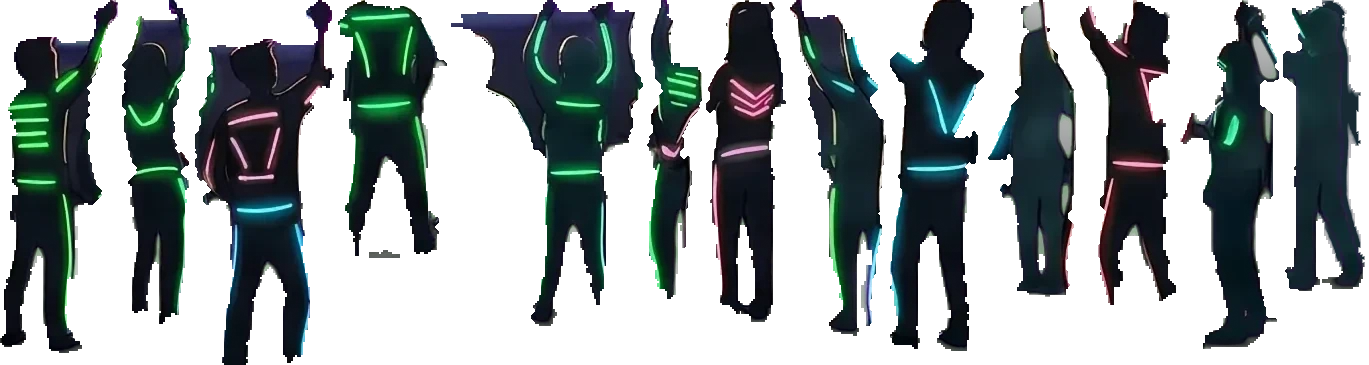
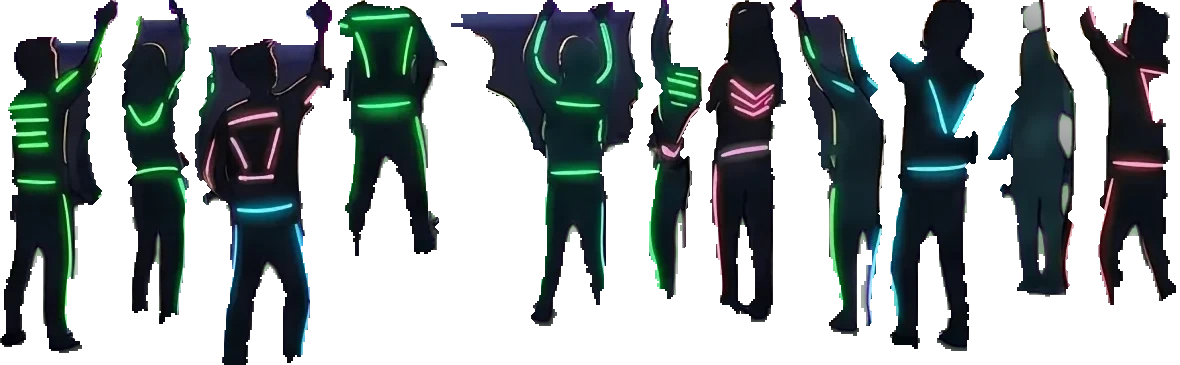
fix(bloomscroll): desktop crowd without holes, misty pair at the right removed
Behind each hopping dancer the wide painting is now as solid as its
surroundings (stage and people solid, ground soft, sky clear), filled from
dark paint only, so a hop never shows sky through the crowd. The misty
pair at the right end of the crowd is removed (owner request).

diff --git a/components/feed/BloomscrollScene.js b/components/feed/BloomscrollScene.js
@@ -20,7 +20,7 @@ import { BLOOMSCROLL_LOGO } from "@/components/Header/nav-links"
 // so a sharper file of the same shape replaces one with no other change.
 const IMG = "/images/bloomscroll/"
 // Bump when any scene image is replaced, so no browser mixes a cached old picture with new code
-const ART_V = "v=7"
+const ART_V = "v=8"
 const MOON = "moon.webp"
 const WIDE_ART = {
   sky: "sky.webp", far: "far-cut.webp", soft: "far-cut-blur.webp", clouds: "clouds.webp",
@@ -64,7 +64,7 @@ const LIFE = {
     fires: [[0.8315, 0.795, 0.024, "bonfire"], [0.937, 0.258, 0.014, "torch"]],
     wheel: [0.8264, 0.475, 0.0455],
     hoops: [[0.8795, 0.621, 0.011], [0.9175, 0.643, 0.011], [0.948, 0.655, 0.011], [0.9945, 0.646, 0.011]],
-    figures: [[0.12744,0.63751,0.02881,0.20311,0.0,0.0862,0.96714],[0.14844,0.65075,0.01685,0.18642,0.08912,0.05041,0.88767],[0.16089,0.63521,0.03394,0.21001,0.14244,0.10155,0.99999],[0.19678,0.70598,0.02661,0.14845,0.2469,0.07962,0.70687],[0.20093,0.6542,0.04688,0.18757,0.32944,0.14026,0.89314],[0.2439,0.65075,0.01343,0.17204,0.47261,0.04018,0.81919],[0.25195,0.67779,0.01953,0.18527,0.5157,0.05843,0.88219],[0.26343,0.63982,0.02344,0.19333,0.57706,0.07013,0.92057],[0.28296,0.6611,0.02295,0.20196,0.65011,0.06867,0.96166],[0.29834,0.64845,0.02148,0.17089,0.72169,0.06427,0.81372],[0.31299,0.6565,0.02344,0.17549,0.7889,0.07013,0.83562],[0.33276,0.64097,0.02417,0.20081,0.86194,0.07232,0.95619],[0.35229,0.65765,0.02002,0.16743,0.93718,0.0599,0.79724]],
+    figures: [[0.12744,0.63751,0.02881,0.20311,0.0,0.1,0.96714],[0.14844,0.65075,0.01685,0.18642,0.10339,0.05849,0.88767],[0.16089,0.63521,0.03394,0.21001,0.16525,0.11781,0.99999],[0.19678,0.70598,0.02661,0.1473,0.28644,0.09237,0.70139],[0.20093,0.6542,0.04688,0.18757,0.3822,0.16273,0.89314],[0.2439,0.65075,0.01343,0.17204,0.54831,0.04662,0.81919],[0.25195,0.67779,0.01953,0.18527,0.59831,0.06779,0.88219],[0.26343,0.63982,0.02344,0.19333,0.66949,0.08136,0.92057],[0.28296,0.6611,0.02295,0.20196,0.75424,0.07966,0.96166],[0.29834,0.64845,0.02148,0.17089,0.83729,0.07456,0.81372],[0.31299,0.6565,0.02344,0.17549,0.91525,0.08136,0.83562]],
     hop: 0.0081,
     rig: {
       heads: [[0.1275, 0.381], [0.1645, 0.355], [0.2475, 0.363], [0.2785, 0.394]], wall: [0.0525, 0.341, 0.289, 0.651], floor: 0.651, panel: [0.1425, 0.237, 0.578, 0.642],

diff --git a/docs/bloomscroll-scene.md b/docs/bloomscroll-scene.md
@@ -58,7 +58,7 @@ The Bloomscroll page (`/feed`) opens with an animated festival scene: the visito
 | Turning wheel (every screen) | centre (0.816, 0.493), radius 0.094 W, one turn per `9000·2π` ms, 12 gondolas, 24 rim bulbs, behind the tents |
 | Phone festival | portrait concert painting, split at **55.5 %**; left group set down **8 %**, right group **4 %** of the scene height |
 | Concert (every screen) | **124 bpm**; colours teal (98, 168, 172), chartreuse (206, 255, 29), magenta (255, 79, 216), violet (138, 92, 255), warm white (255, 238, 205), changing every 8 beats; beams, LED panel pulse (the painted panel itself, tinted, so only its LED lines glow), strobe every 16 beats (a soft burst). The stage lights are drawn on their own canvas with faded edges, so no flash ever shows a box. |
-| Crowd hop (QA round 2, owner request) | the dancers in front of the stage are cut out whole (`scripts/crowd_figures.py`) and hop as solid figures: a quick hop on each beat, rolling across the crowd from left to right; height 0.81 % (wide) / 0.7 % (phone) of the painting. At rest the painting is exactly the original. The painted light-spinner (wide) and the right-hand hoop girl (phone) are out of the paintings, and the light-hoop sparks are gone. The stage's back-right wall, painted the key magenta, is filled in from the wall around it (it used to cut out see-through). |
+| Crowd hop (QA round 2, owner request) | the dancers in front of the stage are cut out whole (`scripts/crowd_figures.py`) and hop as solid figures: a quick hop on each beat, rolling across the crowd from left to right; height 0.81 % (wide) / 0.7 % (phone) of the painting. At rest the painting is exactly the original. The painted light-spinner (wide) and the right-hand hoop girl (phone) are out of the paintings, and the light-hoop sparks are gone. QA round 3 (owner request): the misty pair at the right end of the wide crowd and the phone's striped-legs dancer are out too (`drop` in the script), and behind every hopper the painting is as solid as its surroundings, so a hop never shows sky through the crowd. The stage's back-right wall, painted the key magenta, is filled in from the wall around it (it used to cut out see-through). |
 | Bottom fade | desktop and tablet 14 % of the scene height; phone 30 % |
 | Reduced motion | everything still: moon up, lights on, no unfold, no hop, wheel still |
 | Walk-in on phones | counts from the first pixel of scroll, so the scene moves straight away |

diff --git a/docs/bloomscroll-assets.md b/docs/bloomscroll-assets.md
@@ -23,7 +23,7 @@ All files are in `public/images/bloomscroll/`.
 | `p-far-cut.webp` | Far painting | phone | 900×1117 | 0.806 | transparent sky | **Yes (02)** |
 | `far-cut-blur.webp` / `p-far-cut-blur.webp` | Soft-focus copy of the far painting | wide / phone | as above | | transparent | No: rebuilt from 01/02 |
 | `festival-concert.webp` / `festival-concert@2x.webp` | Wide concert festival, hopping figures lifted out (filled in behind them) | desktop, tablet | 2000×849 / 4096×1738 | 33:14 | transparent | **Done**: cut from Terry's 4096 upscale; the 1x is its downscale |
-| `crowd-concert-figures.webp` / `@2x` | The 13 wide dancers who hop, packed side by side | desktop, tablet | 668×178 / 1369×365 | sheet | transparent | No: rebuilt from 03 |
+| `crowd-concert-figures.webp` / `@2x` | The 11 wide dancers who hop, packed side by side | desktop, tablet | 576×178 / 1180×365 | sheet | transparent | No: rebuilt from 03 |
 | `glow-lights-concert.webp` | Soft light glow (screen blend) | desktop, tablet | 1000×424 | 33:14 | opaque on black | No: rebuilt from 03 |
 | `p-festival4c.webp` | Phone concert festival, hopping figures lifted out (filled in behind them) | phone | 900×1117 | 0.806 | transparent | **Yes (04)**, then re-cut |
 | `p-crowd4-figures.webp` | The 7 phone dancers who hop, packed side by side | phone | 340×124 | sheet | transparent | No: rebuilt from 04 |
